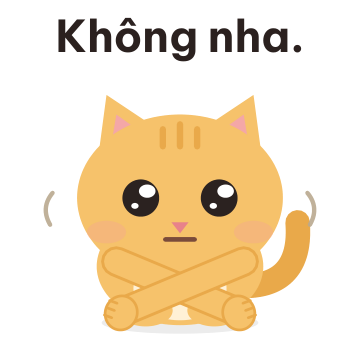
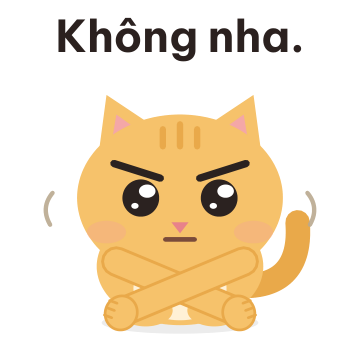
Stickers: hearts clear of the text, Hoan hô with arms raised outside the head, Không nha with stern brows

Changed region(s): [[0.55, 0.4278, 0.7028, 0.5194], [0.3056, 0.4278, 0.4583, 0.5194]]

diff --git a/docs/plans/assets/stickers/build_stickers.py b/docs/plans/assets/stickers/build_stickers.py
@@ -329,7 +329,7 @@ def arm(d, w=10):
 
 
 def arms_up():
-    return arm("M40 96 L10 58") + arm("M80 96 L110 58")
+    return arm("M36 100 Q-4 94 9 50") + arm("M84 100 Q124 94 111 50")
 
 
 def ok_sign(x, y):
@@ -340,6 +340,10 @@ def ok_sign(x, y):
         o += f'<ellipse cx="{f(x + dx)}" cy="{f(y + dy)}" rx="3.3" ry="6" fill="{FUR}" stroke="{DARK}" stroke-width="1.1" transform="rotate({r} {f(x + dx)} {f(y + dy)})"/>'
     o += f'<circle cx="{f(x - 5)}" cy="{f(y - 5)}" r="4.6" fill="{BELLY}" stroke="{DARK}" stroke-width="1.6"/>' + "</g>"
     return o
+
+
+def firm_brows():
+    return stroke_path("M33 50 L52 56", INK, 3) + stroke_path("M87 50 L68 56", INK, 3)
 
 
 def crossed_arms():
@@ -367,7 +371,7 @@ def cloud_and_rain():
 
 def hearts():
     out = ""
-    for x, y, k in ((14, 40, 1.0), (104, 30, 1.3), (22, 8, 0.7), (96, 80, 0.8)):
+    for x, y, k in ((12, 50, 1.0), (106, 40, 1.3), (22, 26, 0.8), (100, 86, 0.8)):  # all below the text line
         out += f'<path transform="translate({x},{y}) scale({k})" d="M0 3 C-7 -3 -3 -9 0 -5 C3 -9 7 -3 0 3 Z" fill="#f08a99"/>'
     return out
 
@@ -436,9 +440,9 @@ STICKERS = [
     ("16", "Giỏi quá.", lambda: cat(STAND_F, dict(LOOK["smirk"], lid=0.5, gx=-4, roll=3, mouth="flat", cheek=0.4)) + thumbs_up(96, 86)),
     ("17", "Ai đợi đâu.", lambda: cat(STAND_S, dict(LOOK["rest"], lid=0.7, roll=-6, mouth="smile", cheek=1.0, gx=-3))),
     ("19", "Huhu…", lambda: cat(STAND_F, dict(LOOK["sad"], roll=0, dy=0, lid=1, wide=1, cheek=0.5, droop=1, mouth="none")) + tears()),
-    ("20", "Hoan hô!", lambda: confetti() + arms_up() + cat(STAND_F, dict(LOOK["happy"], dy=0)) + paw(9, 52, 8, 10, -20, True) + paw(111, 52, 8, 10, 20, True)),
+    ("20", "Hoan hô!", lambda: confetti() + arms_up() + cat(STAND_F, dict(LOOK["happy"], dy=0)) + paw(9, 42, 8.5, 10.5, -8, True) + paw(111, 42, 8.5, 10.5, 8, True)),
     ("21", "Ok nè!", lambda: cat(STAND_F, dict(LOOK["rest"], wink=1, mouth="smile", cheek=0.8, roll=4)) + ok_sign(98, 80)),
-    ("22", "Không nha.", lambda: cat(STAND_F, dict(LOOK["rest"], lid=0.8, mouth="flat", cheek=0.3, roll=0)) + crossed_arms() + arcs("M8 62 q-5 6 -1 13", "M112 62 q5 6 1 13")),
+    ("22", "Không nha.", lambda: cat(STAND_F, dict(LOOK["rest"], lid=0.8, mouth="flat", cheek=0.3, roll=0)) + crossed_arms() + firm_brows() + arcs("M8 62 q-5 6 -1 13", "M112 62 q5 6 1 13")),
 ]
 
 S = 2.45

diff --git a/docs/plans/sticker-set-v0.md b/docs/plans/sticker-set-v0.md
@@ -31,6 +31,8 @@ All 15 stickers, the icon, the preview and the 9 banners exist as PNG in [`asset
 
 **Third pass (2026-11-11):** the six stickers that looked alike at 120 px now differ by silhouette or gesture: 05 sits and puffs, 08 beckons with a raised paw, 14 rests a paw on the chin under a thought bubble, 15 giggles behind a paw, 16 claps slowly, 17 turns side-on (see [`six_distinct.png`](assets/stickers/direction-v1/six_distinct.png)); 03 lost its thought dots. The paws and arcs are sticker art, not rig poses.
 
+**Eighth pass (2026-11-11, the author's notes on the contact sheet):** the hearts of "Cảm ơn nha!" are moved below the text line; "Hoan hô!" has long curved arms raised outside the head with the paws high (before, the paws sat at the ears and read as extra ears); "Không nha." has stern brows (sticker art) over the crossed arms.
+
 **Seventh pass (2026-11-11), after the audit:** the rain sticker (list id 10) is replaced by **"Haha!"** (list id 18) and four are added: 19 "Huhu…", 20 "Hoan hô!", 21 "Ok nè!", 22 "Không nha."; "Xin lỗi nhé." has wet eyes and a sweat drop and "Cảm ơn nha!" presses the paws together. The set is **20 stickers**, the maximum. The file numbers are by position: 01 to 06 = list 01 to 06; 07 = 08 "Làm chung nhé?"; 08 = 09 "Ngủ ngon."; **09 = 18 "Haha!"**; 10 = 11 "Xin lỗi nhé."; 11 = 12 "Cảm ơn nha!"; 12 = 13 "Ơ!"; 13 = 14 "Để mình nghĩ…"; 14 = 15 "Hì hì."; 15 = 16 "Giỏi quá."; 16 = 17 "Ai đợi đâu."; **17 = 19 "Huhu…"; 18 = 20 "Hoan hô!"; 19 = 21 "Ok nè!"; 20 = 22 "Không nha."** The sixth-pass numbering below is the 16-sticker one.
 
 **Sixth pass (2026-11-11): the clapping "Giỏi quá!" (list id 07) is removed** because it duplicated the thumbs-up one. The set is 16 stickers, and the files are numbered by position (Zalo wants 01, 02, ... without a gap), so from list id 08 on the file number is one less: **file 07 = list 08** "Làm chung nhé?", 08 = 09 "Ngủ ngon.", 09 = 10 "Trời mưa rồi.", 10 = 11 "Xin lỗi nhé.", 11 = 12 "Cảm ơn nha!", 12 = 13 "Ơ!", 13 = 14 "Để mình nghĩ…", 14 = 15 "Hì hì.", 15 = 16 "Giỏi quá." (thumbs-up), 16 = 17 "Ai đợi đâu."; files 01 to 06 are list 01 to 06. The audit of the emotions is in [`sticker-expression-audit.md`](sticker-expression-audit.md).
